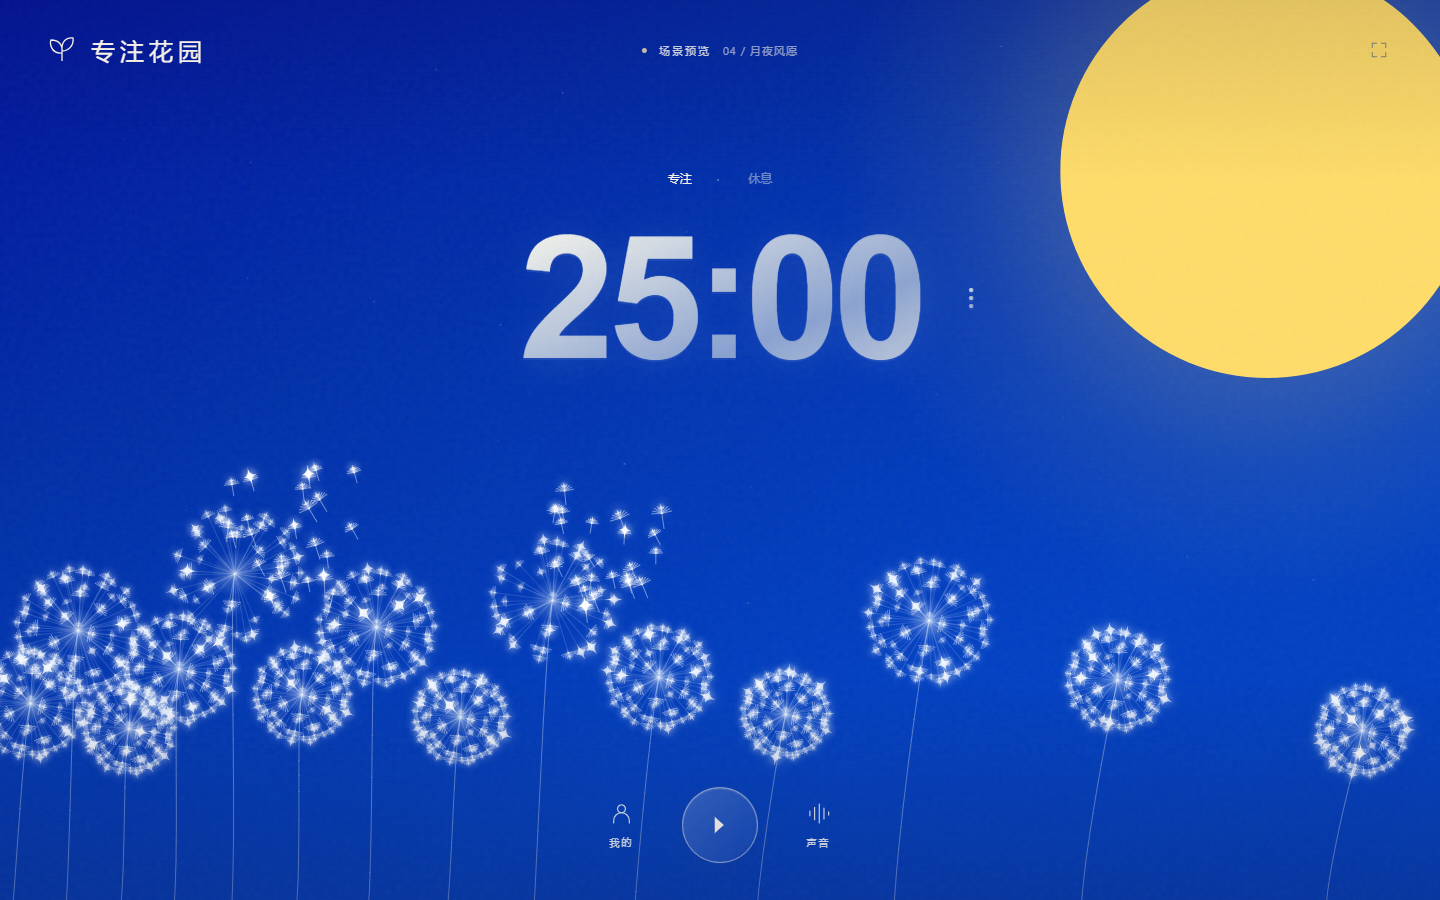
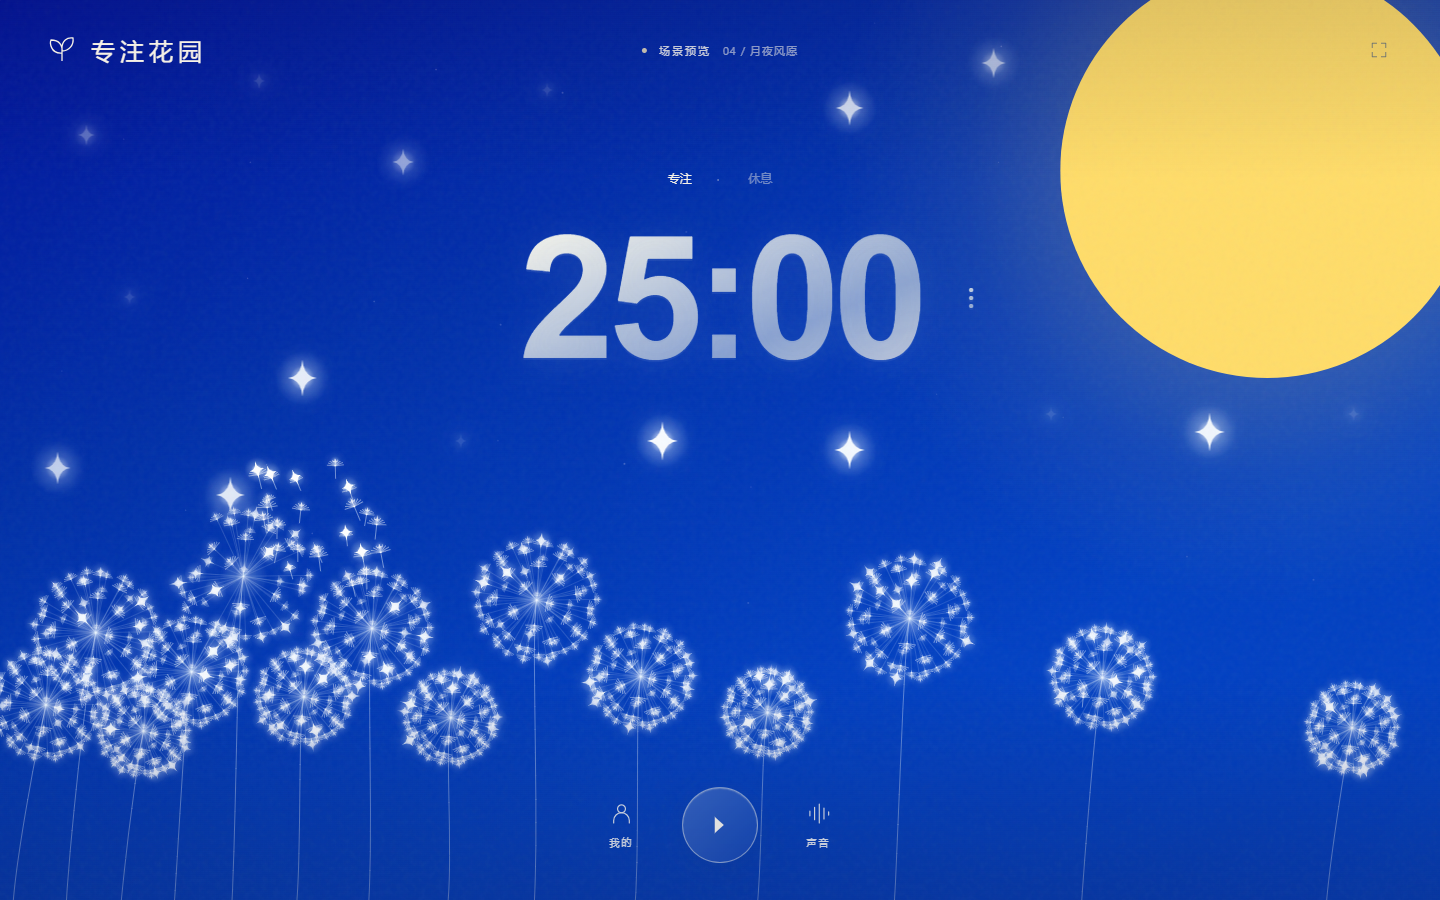
feat: add independently twinkling sky stars with double seed glow

diff --git a/scenes/dandelion-night/renderer.js b/scenes/dandelion-night/renderer.js
@@ -6,9 +6,24 @@ window.GardenRenderers['dandelion-night']=function(canvas,scene){
   seedLight.width=seedLight.height=48;
   const lightContext=seedLight.getContext('2d'),lightGradient=lightContext.createRadialGradient(24,24,0,24,24,24);
   lightGradient.addColorStop(0,'#ffffffff');lightGradient.addColorStop(.18,'#f0f6ffb3');lightGradient.addColorStop(.45,'#dceaff30');lightGradient.addColorStop(1,'#dceaff00');lightContext.fillStyle=lightGradient;lightContext.fillRect(0,0,48,48);
-  let w,h,dpr,raf,last=0,time=0,alive=true,flowers=[],flying=[],nextWind=3,clickReleases=0,windReleases=0;
+  let w,h,dpr,raf,last=0,time=0,alive=true,flowers=[],flying=[],stars=[],nextWind=3,clickReleases=0,windReleases=0;
   const rand=(a,b)=>a+Math.random()*(b-a);
   const listen=(target,name,fn)=>target.addEventListener(name,fn,{signal:events.signal});
+  function starReach(r,brightness){return 1.6+r*.18+brightness*(2.6+r*.35);}
+  // Cache 32 brightness levels, using exactly twice the largest seed's light profile.
+  const skyStarSprites=Array.from({length:32},(_,i)=>{
+    const sprite=document.createElement('canvas');sprite.width=sprite.height=96;
+    const c=sprite.getContext('2d'),brightness=i/31,r=7*scene.flowerScale;
+    c.translate(48,48);c.scale(scene.skyStarScale,scene.skyStarScale);
+    const halo=3+r;c.globalAlpha=.32+brightness*.68;c.drawImage(seedLight,-halo,-halo,halo*2,halo*2);c.globalAlpha=1;
+    c.shadowColor='#f2f8ff';c.shadowBlur=(4+brightness*9)*scene.skyStarScale;
+    c.fillStyle=`rgba(248,252,255,${.72+.28*brightness})`;
+    const reach=starReach(r,brightness),width=.28+brightness*.5;
+    c.beginPath();c.arc(0,0,.7+brightness*.95,0,Math.PI*2);
+    c.moveTo(0,-reach);c.quadraticCurveTo(width,-width,reach*.78,0);c.quadraticCurveTo(width,width,0,reach);
+    c.quadraticCurveTo(-width,width,-reach*.78,0);c.quadraticCurveTo(-width,-width,0,-reach);c.fill();
+    return sprite;
+  });
   function background(){
     const c=sky.getContext('2d'),g=c.createLinearGradient(0,0,w*.25,h);
     g.addColorStop(0,'#00139d');g.addColorStop(.48,'#002fa7');g.addColorStop(1,'#003fbd');
@@ -35,6 +50,11 @@ window.GardenRenderers['dandelion-night']=function(canvas,scene){
     w=innerWidth;h=innerHeight;dpr=Math.min(devicePixelRatio||1,2);
     canvas.width=w*dpr;canvas.height=h*dpr;ctx.setTransform(dpr,0,0,dpr,0,0);
     sky.width=w;sky.height=h;background();flying=[];nextWind=time+rand(2.6,3.6);clickReleases=0;windReleases=0;
+    const moonRadius=Math.min(w*.16,h*.23);
+    stars=scene.skyStars.map(([x,y],i)=>({x:x*w,y:y*h,phase:i*2.39996323,rate:.85+(i%5)*.16}))
+      .filter(s=>Math.hypot(s.x-w*.88,s.y-h*.19)>moonRadius+40)
+      .filter(s=>!(s.x>w*.30&&s.x<w*.73&&s.y>h*.15&&s.y<h*.44));
+    canvas.dataset.skyStars=stars.length;
     flowers=scene.layout.map(([x,height,size],index)=>{
       const baseR=Math.max(17,Math.min(w,h)*size),r=baseR*scene.flowerScale,count=68;
       const seeds=Array.from({length:count},(_,i)=>{
@@ -63,7 +83,7 @@ window.GardenRenderers['dandelion-night']=function(canvas,scene){
     ctx.save();ctx.globalAlpha=alpha*(.32+sparkle*.68);ctx.drawImage(seedLight,-halo,-halo-r*.55,halo*2,halo*2);ctx.restore();
     ctx.shadowColor='#f2f8ff';ctx.shadowBlur=4+sparkle*9;
     ctx.fillStyle=`rgba(248,252,255,${.72+.28*sparkle})`;
-    const cy=-r*.55,reach=1.6+r*.18+sparkle*(2.6+r*.35),width=.28+sparkle*.5;
+    const cy=-r*.55,reach=starReach(r,sparkle),width=.28+sparkle*.5;
     ctx.beginPath();ctx.arc(0,cy,.7+sparkle*.95,0,Math.PI*2);
     ctx.moveTo(0,cy-reach);ctx.quadraticCurveTo(width,cy-width,reach*.78,cy);
     ctx.quadraticCurveTo(width,cy+width,0,cy+reach);ctx.quadraticCurveTo(-width,cy+width,-reach*.78,cy);
@@ -114,6 +134,11 @@ window.GardenRenderers['dandelion-night']=function(canvas,scene){
     if(!alive)return;raf=requestAnimationFrame(draw);if(now-last<1000/30)return;
     const dt=Math.min((now-last)/1000||.033,.05);last=now;time+=dt;
     ctx.drawImage(sky,0,0,w,h);
+    for(const star of stars){
+      const pulse=(.5+.5*Math.sin(time*star.rate+star.phase))**3;
+      ctx.save();ctx.globalAlpha=.2+.8*pulse;
+      ctx.drawImage(skyStarSprites[Math.round(pulse*31)],star.x-48,star.y-48);ctx.restore();
+    }
     for(const f of flowers)bloom(f);
     if(time>=nextWind){
       if(flying.filter(s=>s.ambient).length<14)detach(flowers[Math.floor(Math.random()*flowers.length)],Math.random()<.3?2:1,true);
@@ -130,5 +155,5 @@ window.GardenRenderers['dandelion-night']=function(canvas,scene){
     canvas.dataset.floatingSeeds=flying.length;
   }
   raf=requestAnimationFrame(draw);
-  return ()=>{alive=false;cancelAnimationFrame(raf);events.abort();flying=[];flowers=[];delete canvas.dataset.flowers;delete canvas.dataset.floatingSeeds;delete canvas.dataset.releasedByClick;delete canvas.dataset.releasedByWind;};
+  return ()=>{alive=false;cancelAnimationFrame(raf);events.abort();flying=[];flowers=[];delete canvas.dataset.flowers;delete canvas.dataset.floatingSeeds;delete canvas.dataset.releasedByClick;delete canvas.dataset.releasedByWind;delete canvas.dataset.skyStars;};
 };

diff --git a/scenes/dandelion-night/scene.js b/scenes/dandelion-night/scene.js
@@ -1,8 +1,9 @@
 window.GardenSceneDefinitions=window.GardenSceneDefinitions||[];
 window.GardenSceneDefinitions.push(Object.freeze({
   id:'dandelion-night',name:'月夜风愿',number:'04',renderer:'dandelion-night',
-  themeColor:'#002fa7',flowerScale:1.5,hint:'轻点蒲公英，让微光随风远行',
+  themeColor:'#002fa7',flowerScale:1.5,skyStarScale:2,hint:'轻点蒲公英，让微光随风远行',
   description:'克莱因蓝夜空与右上方柔黄色无纹理大月亮，下方是随风摇摆、银白星光种子的蒲公英，点击花球让种子向右上方飘散',
+  skyStars:[[.06,.15],[.18,.09],[.28,.18],[.38,.10],[.59,.12],[.69,.07],[.09,.33],[.21,.42],[.32,.49],[.46,.49],[.59,.50],[.73,.46],[.84,.48],[.94,.46],[.04,.52],[.16,.55]],
   layout:[
     [.018,.22,.038],[.055,.30,.044],[.093,.19,.031],[.13,.255,.038],
     [.17,.36,.047],[.215,.225,.033],[.265,.30,.041],[.32,.20,.032],

diff --git a/PRD.md b/PRD.md
@@ -1,6 +1,6 @@
 # 专注花园 PRD
 
-版本：1.9
+版本：1.10
 
 整理日期：2026-10-20  
 适用范围：仅在用户电脑浏览器运行的离线番茄钟应用  
@@ -408,3 +408,13 @@
 验收：月面多个内部位置均为参考黄且一致；远离月晕的天空像素保持高饱和蓝色；实际绘制的 14 个花球种子外缘半径均为原尺寸的 1.5 倍；附着和飞行种子都绘制银白星芒并有强弱变化。对应已有蒲公英专项测试的加强和尺寸新增测试。
 
 版本记录：PRD 1.9，按用户参考图修订第四素材，参考原图保存在 `互动场景原素材/蒲公英配色参考.jpg`。
+
+
+## 18. 第四素材天空星星
+
+- 在当前克莱因蓝天空加入一些银白色四角星星，各自错开时间明暗闪烁。
+- 使用与种子一致的星芒材质，按相同亮度档位、以常规最大种子光芒为参照将轮廓及光晕扩大 2 倍。
+- 布局避开黄色月面与计时数字；月亮、蒲公英尺寸、风摆、自然轻飘、点击飘散及计时和保存保持不变。
+- 验收实际绘制的星芒及光晕比例为 2 倍；不同星星亮暗变化、峰值时间错开，不同步整齐闪烁；不侵入月面或数字区域。
+
+版本记录：PRD 1.10，按用户要求为第四素材加入两倍光芒的天空闪星。

diff --git a/TEST_RESULTS.md b/TEST_RESULTS.md
@@ -124,3 +124,12 @@
 最终全量共 28 项，实际输出保存到 `.preview/final-test-output.txt`。实际预览更新于 `scenes/dandelion-night/preview.png`。
 
 克莱因蓝与银白星芒修订最终全量结果：28 项通过、0 项失败。
+
+
+## 第四素材：两倍光芒的天空闪星
+
+新增一项真实浏览器测试，测量实际离屏绘制的天空星芒轮廓和光晕均为参考种子的 2 倍；在真实动画中记录每颗星星明暗变化及错开的峰值，并确认位置避开月面和计时区域。
+
+蒲公英专项 8 项通过，包含原有月亮、花球尺寸、逐颗种子星光、风摆、自然飘散、点击方向、计时与备份清理。全量测试总数为 29 项，最终输出见 `.preview/final-test-output.txt`。
+
+天空闪星最终全量结果：29 项通过、0 项失败。

diff --git a/README.md b/README.md
@@ -70,3 +70,5 @@
 第四素材最新修订：风摆增强，所有种子带常亮核心和独立闪烁的柔光；无人点击也有少量种子随风轻飘，点击后仍向右上方飘散。标识不变，旧进度和备份继续兼容。
 
 第四素材配色及材质最新修订：高饱和克莱因蓝，参考图柔黄色无纹理大月亮；蒲公英花球与绒毛放大为原来的 1.5 倍，所有种子均为显著闪烁的银白星芒。布局、风摆幅度、自然轻飘与点击右上方飘散保持不变。
+
+第四素材天空已增加独立闪烁的银白星星，光芒尺寸为种子的 2 倍，避开月亮和计时数字。

diff --git a/scenes/dandelion-night/README.md b/scenes/dandelion-night/README.md
@@ -16,3 +16,5 @@
 预览：http://127.0.0.1:8765/?preview=dandelion-night
 
 第三个素材星光雨窗保留在 `../rain-window/`，确认标签为 `rain-window-v1`。本次调整不修改它及另外两套鱼池。
+
+天空新增错开节奏明暗闪烁的银白星星，星芒和光晕以同一材质的常规最大种子为参照放大 2 倍，布局避开月面和计时数字。星星缓存 32 档亮度，保持轻量离线运行，不改变原有蒲公英和月亮效果。
